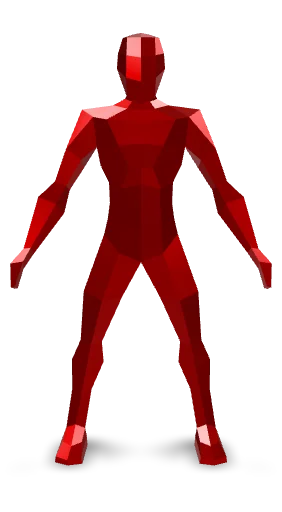
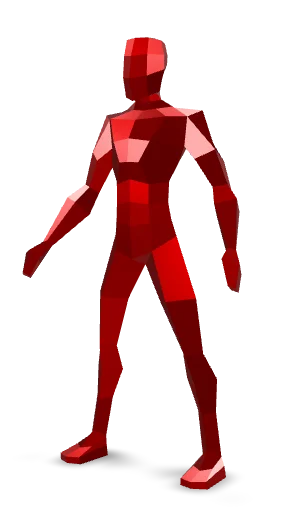
-

Changed region(s): [[0.0284, 0.0625, 0.9645, 0.9688]]

diff --git a/Script/EYE.js b/Script/EYE.js
@@ -1,43 +1,44 @@
-// глаз
-const eye = document.getElementById('eye-svg');
-// зрачок
-const pupil = document.getElementById('pupil');
+export function initAnimations() {
+    // глаз
+    const eye = document.getElementById('eye-svg');
+    // зрачок
+    const pupil = document.getElementById('pupil');
 
-document.addEventListener('mousemove', (e) => {
-    const rect = eye.getBoundingClientRect();
+    document.addEventListener('mousemove', (e) => {
+        const rect = eye.getBoundingClientRect();
 
-    // Находим центр глаза в пикселях на экране
-    const centerX = rect.left + rect.width / 2;
-    const centerY = rect.top + rect.height / 2;
+        // Находим центр глаза в пикселях на экране
+        const centerX = rect.left + rect.width / 2;
+        const centerY = rect.top + rect.height / 2;
 
-    // Расстояние от мыши до центра
-    const dx = e.clientX - centerX;
-    const dy = e.clientY - centerY;
+        // Расстояние от мыши до центра
+        const dx = e.clientX - centerX;
+        const dy = e.clientY - centerY;
 
-    // Угол направления
-    const angle = Math.atan2(dy, dx);
+        // Угол направления
+        const angle = Math.atan2(dy, dx);
 
-    // Переводим ограничение из единиц SVG в пиксели экрана
-    // В этом SVG ширина 960 единиц. Ограничим движение зрачка ~80 единицами.
-    const maxDistanceInSvg = 80;
-    const maxDistancePx = (maxDistanceInSvg * rect.width) / 960;
+        // Переводим ограничение из единиц SVG в пиксели экрана
+        // В этом SVG ширина 960 единиц. Ограничим движение зрачка ~80 единицами.
+        const maxDistanceInSvg = 80;
+        const maxDistancePx = (maxDistanceInSvg * rect.width) / 960;
 
-    // Текущая дистанция (не больше максимума)
-    const distance = Math.min(Math.hypot(dx, dy) / 5, maxDistancePx);
+        // Текущая дистанция (не больше максимума)
+        const distance = Math.min(Math.hypot(dx, dy) / 5, maxDistancePx);
 
-    // Считаем финальное смещение
-    const x = Math.cos(angle) * distance;
-    const y = Math.sin(angle) * distance;
+        // Считаем финальное смещение
+        const x = Math.cos(angle) * distance;
+        const y = Math.sin(angle) * distance;
 
-    // Применяем трансформацию. 
-    // Мы используем scale, чтобы пересчитать пиксели обратно в единицы SVG
-    const svgScale = 960 / rect.width;
-    pupil.setAttribute('transform', `translate(${x * svgScale}, ${y * svgScale})`);
-});
+        // Применяем трансформацию. 
+        // Мы используем scale, чтобы пересчитать пиксели обратно в единицы SVG
+        const svgScale = 960 / rect.width;
+        pupil.setAttribute('transform', `translate(${x * svgScale}, ${y * svgScale})`);
+    });
 
-
-// курсор ливнул
-document.addEventListener('mouseleave', () => {
-    pupil.style.fill = 'red';
-    pupil.setAttribute('transform', 'translate(0)');
-});
+    // курсор ливнул
+    document.addEventListener('mouseleave', () => {
+        pupil.style.fill = 'red';
+        pupil.setAttribute('transform', 'translate(0)');
+    });
+}

diff --git a/index.html b/index.html
@@ -25,22 +25,34 @@
             </div>
         </div>
         <nav>
-            <a href="#">Collection'$</a>
+            <a href="#">Collection's</a>
             <a href="#">FiTTing Room</a>
         </nav>
-
+        
+        <div>contact</div>
+        
         <!-- FPS -->
         <div id="fps-counter">FPS: 00</div>
     </header>
 
     <main>
-        <h1>v 04.04.2026 22:42</h1>
+        <h1>v 05.04.2026 00:38</h1>
 
         <!-- Import the component -->
         <script type="module" src="https://ajax.googleapis.com/ajax/libs/model-viewer/4.2.0/model-viewer.min.js"></script>
 
-        <!-- Use it like any other HTML element -->
-        <model-viewer alt="Neil Armstrong's Spacesuit from the Smithsonian Digitization Programs Office and National Air and Space Museum" src="3d/guy.glb" ar environment-image="https://modelviewer.dev/shared-assets/environments/moon_1k.hdr" poster="3d/poster.webp" shadow-intensity="1" camera-controls touch-action="pan-y"></model-viewer>
+        <model-viewer src="3d/guy.glb" ar ar-modes="scene-viewer webxr quick-look" camera-controls tone-mapping="neutral" poster="3d/poster.webp" shadow-intensity="1" camera-orbit="34.39deg 85.84deg 12.65m" field-of-view="30deg" environment-image="legacy" exposure="1">
+            <div class="progress-bar hide" slot="progress-bar">
+                <div class="update-bar"></div>
+            </div>
+            <button slot="ar-button" id="ar-button">
+                View in your space
+            </button>
+            <div id="ar-prompt">
+                <img src="3d/ar_hand_prompt.png">
+            </div>
+        </model-viewer>
+
     </main>
 
     <footer>
@@ -48,12 +60,8 @@
     </footer>
 </body>
 
-<!-- поведение глаза -->
-<!--<script src="script/eye.js"></script>-->
+<!-- userAgent -->
+<script type="module" src="script/userAgent.js"></script>
 
 <!-- FPS -->
-<script src="script/fps.js"></script>
-
-<!--<script src="3d/script.js"></script>-->
-
-</html>
+<script src="script/fps.js"></script></html>

diff --git a/Style_is_everything/main.css b/Style_is_everything/main.css
@@ -60,11 +60,18 @@ body {
 
 header {
     grid-area: H;
+    display: grid;
+    grid-gap: 2em;
+    grid-auto-columns: 100%;
+    grid-auto-rows: auto auto 1fr;
+    grid-template-areas:
+        "L"
+        "N";
 }
 
 #logo {
     grid-area: L;
-    width: 40%;
+    width: 50%;
     aspect-ratio: 1;
 }
 
@@ -75,6 +82,16 @@ header {
 #pupil {
     fill: blue;
     transition: transform 0.2s ease-out;
+}
+nav {
+    display: grid;
+    grid-gap: 2em;
+    grid-template-columns: 100%;
+    grid-auto-rows: auto auto 1fr;
+}
+nav > a {
+    padding: 1rem;
+    border: 1px solid red;
 }
 
 main {
@@ -105,8 +122,6 @@ footer {
             "F";
     }
     header {
-        display: grid;
-        grid-gap: 2em;
         grid-template-areas: "L N";
         grid-template-columns: 100px auto;
     }
@@ -114,9 +129,9 @@ footer {
     #logo {width: 100%}
     
     nav {
-        display: grid;
         grid-gap: 4em;
         grid-template-columns: auto auto 1fr;
+        grid-template-rows: 1fr;
     }
     
     model-viewer {

diff --git a/script/userAgent.js b/script/userAgent.js
@@ -1,0 +1,14 @@
+const isMobile = /Android|webOS|iPhone|iPad|iPod|BlackBerry|IEMobile|Opera Mini/i.test(navigator.userAgent);
+
+if (isMobile) {console.log("Пользователь зашел с телефона или планшета")
+} else {
+    console.log("Пользователь зашел с компьютера")
+    
+    import('./eye.js')
+        .then((module) => {
+            module.initAnimations();
+        })
+        .catch((err) => {
+            console.error("Ошибка загрузки анимаций:", err);
+        });
+}
